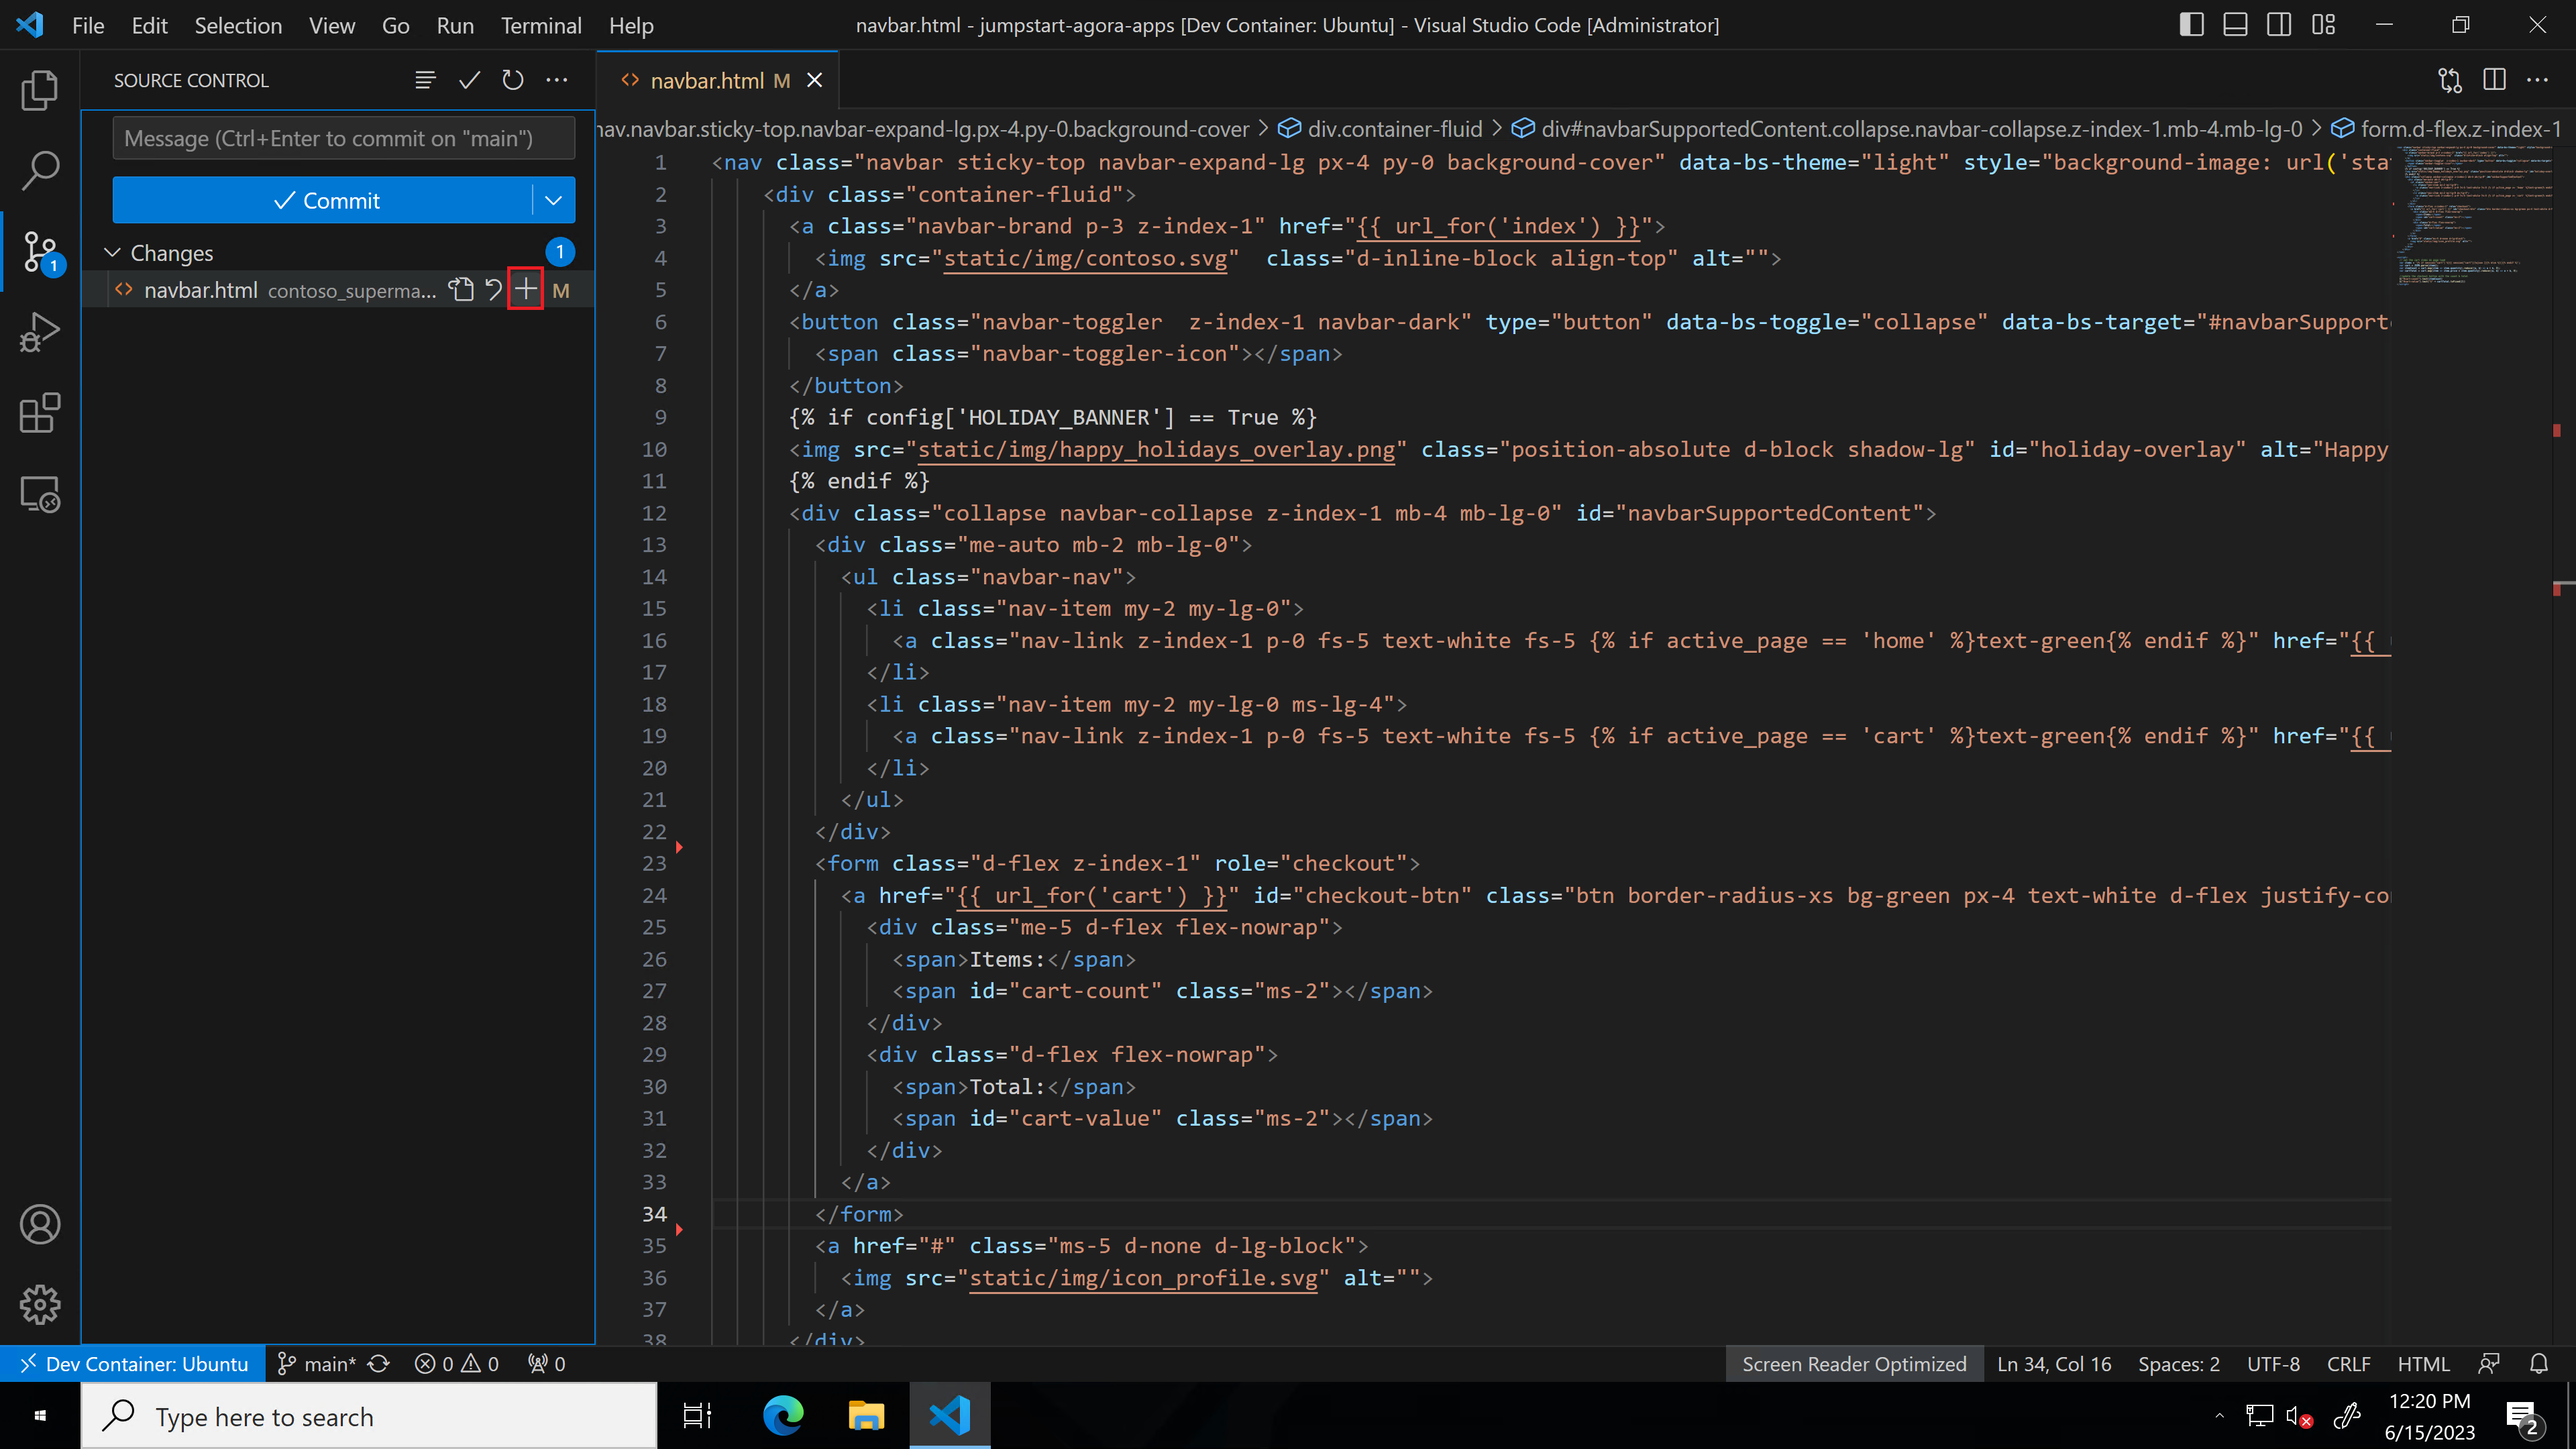
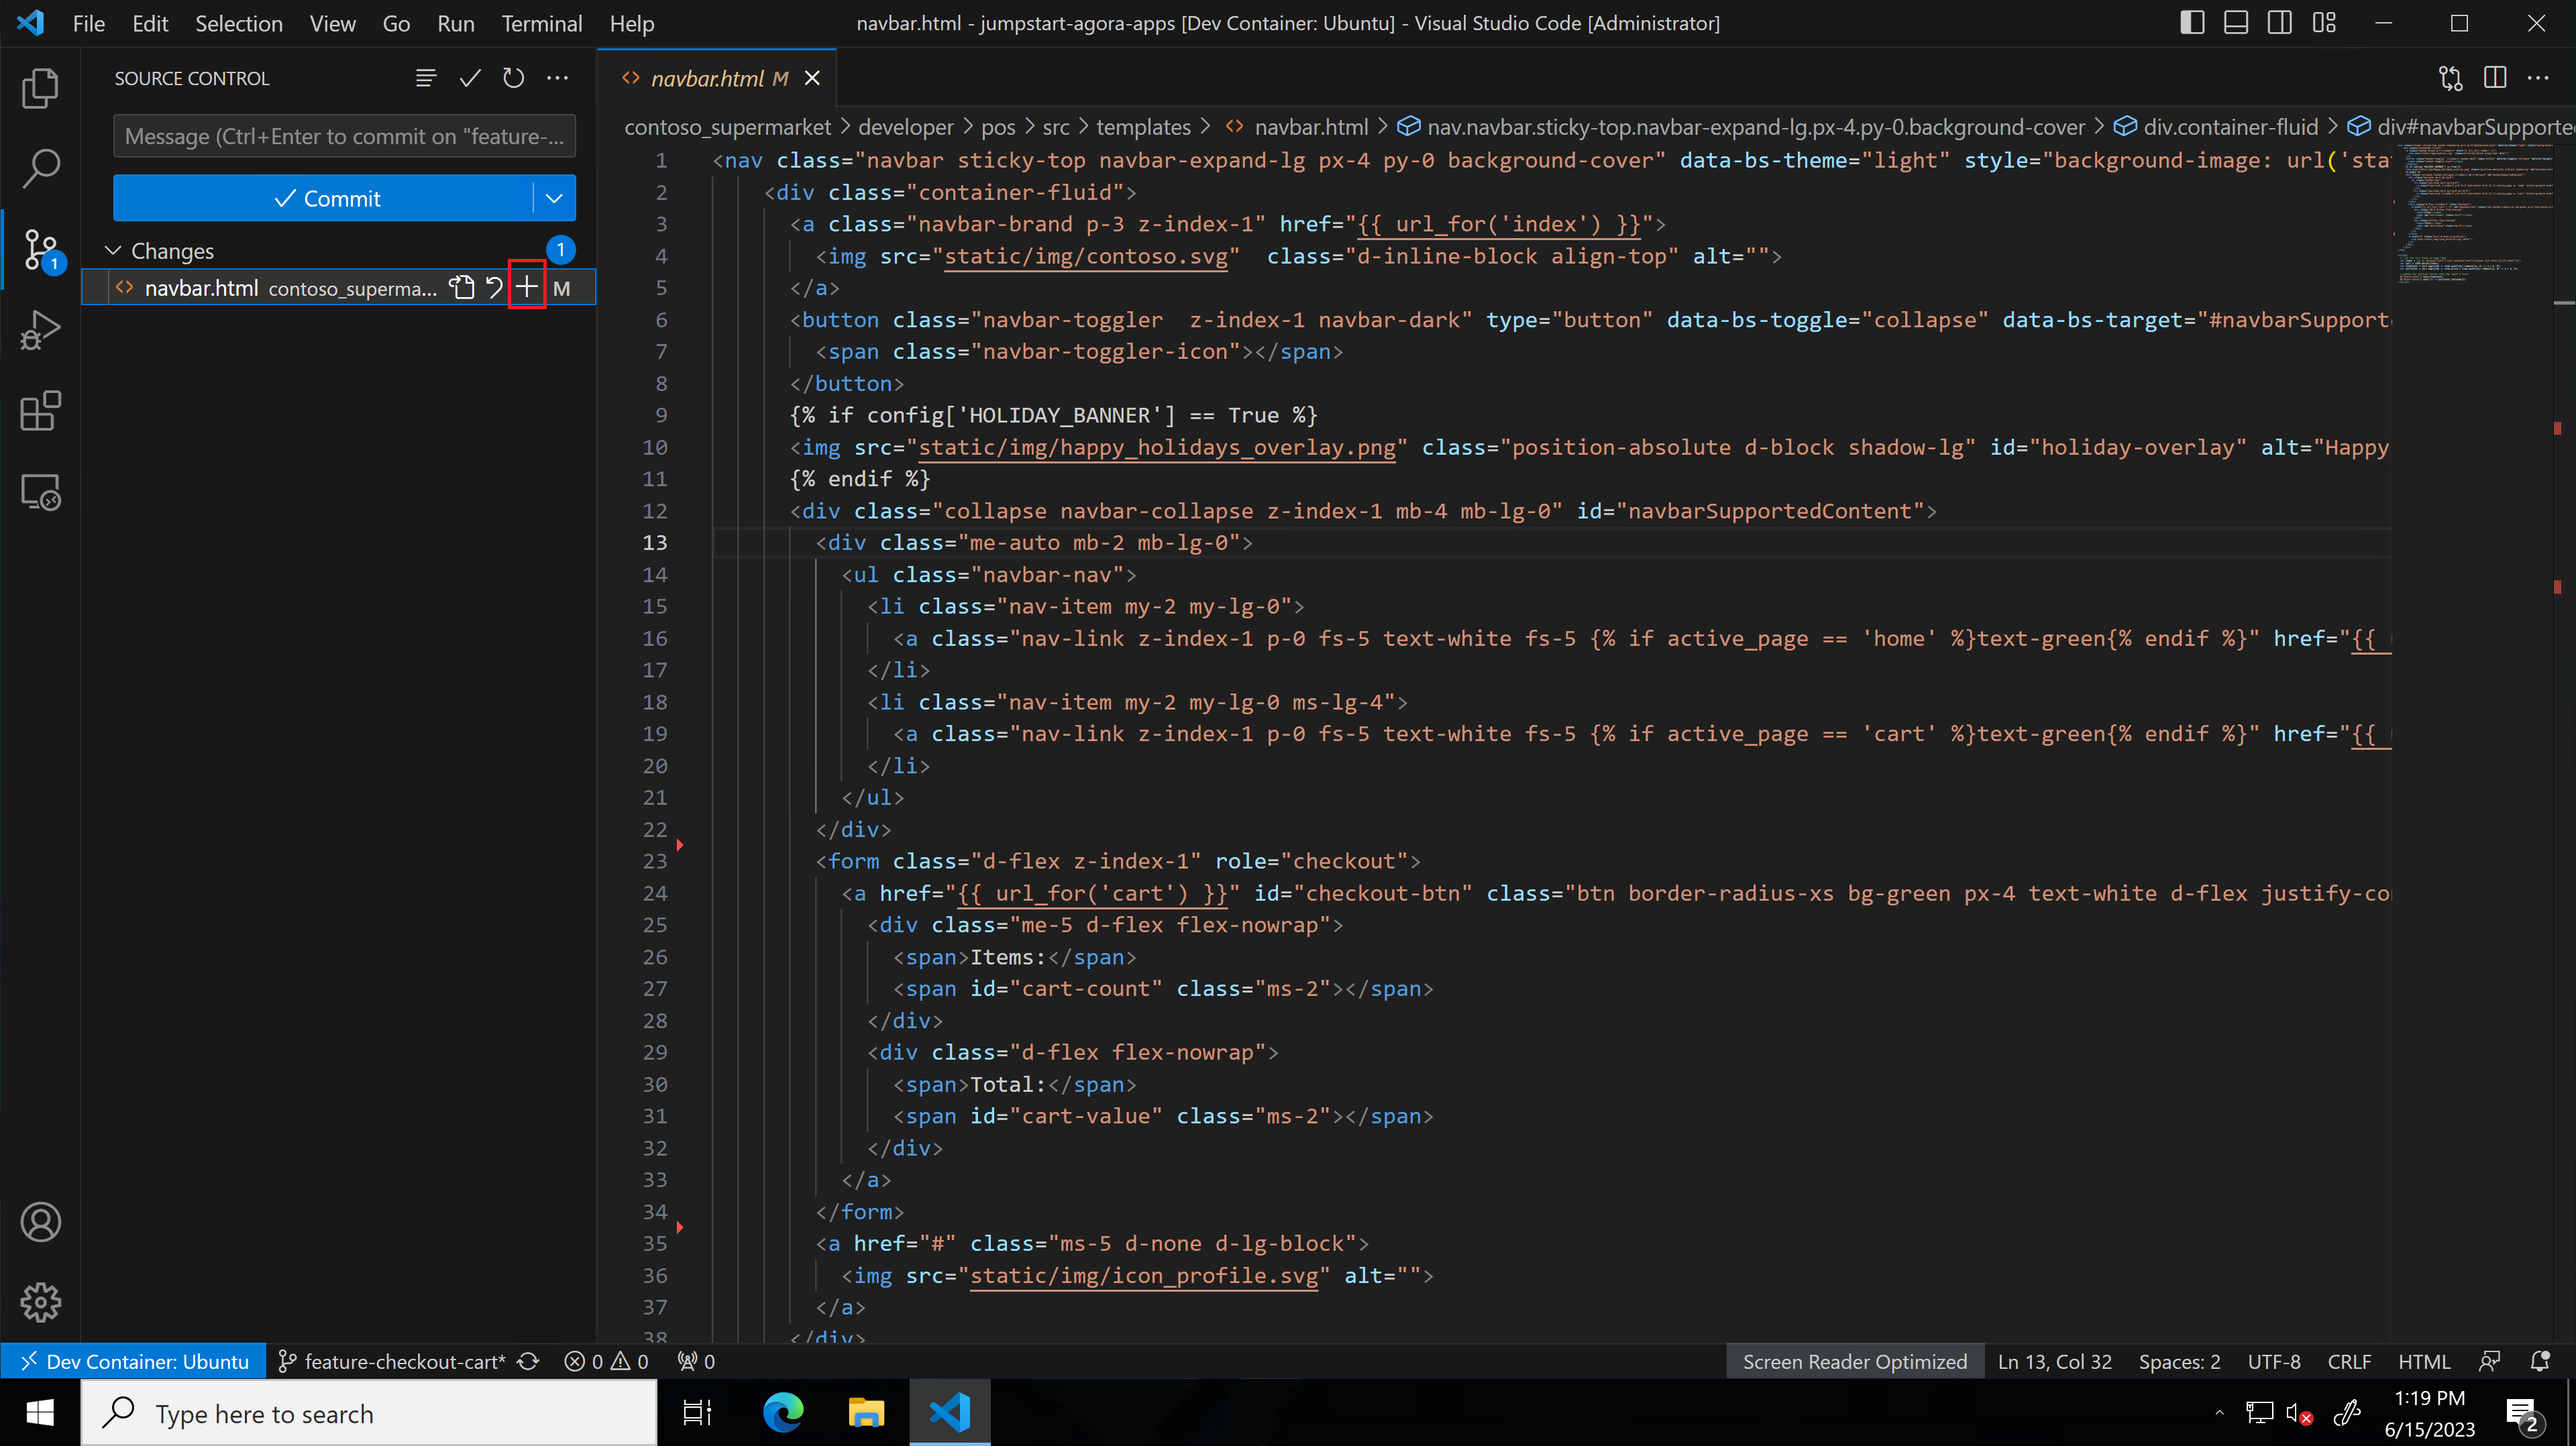
readme changes

diff --git a/docs/azure_jumpstart_ag/contoso_supermarket/ci_cd/_index.md b/docs/azure_jumpstart_ag/contoso_supermarket/ci_cd/_index.md
@@ -105,9 +105,11 @@ The development process will start from the local _dev_ cluster, where as a deve
   ![Screenshot showing the trust repository prompt in VSCode](./img/vscode_dev_container_trust_repository.png)
 
 - To add this new checkout functionality, you will have to create a new feature branch and edit the _navbar.html_ file in the _pos_ application.
-- Create a new branch from VSCode called _feature-checkout-cart_
+- Create a new branch from VSCode called _feature-checkout-cart_ and publish this branch to the remote repository
 
   ![Screenshot showing creating a new branch](./img/vscode_dev_new_feature_branch.png)
+
+  ![Screenshot showing publishing the new branch](./img/vscode_dev_publish_branch.png)
 
 - Navigate to the file _contoso_supermarket/developer/pos/src/templates/navbar.html_
 
@@ -121,8 +123,26 @@ The development process will start from the local _dev_ cluster, where as a deve
 
   ![Screenshot showing the added changes in the repository](./img/vscode_dev_add_changes.png)
 
-- Add a commit message and click Commit, for example: "Adding checkout functionality"
+- Add a commit message and click Commit, for example: "Adding checkout functionality" and push your code
 
   ![Screenshot showing the added a commit message](./img/vscode_dev_commit_message.png)
 
+  ![Screenshot showing the added pushing code to remote](./img/vscode_dev_push_changes.png)
 
+- After the code has been pushed, navigate to your GitHub fork of the _jumpstart-agora-apps_, you will see a notification about changes in the _feature-checkout-cart_branch. Click _Compare & Pull request_
+
+  ![Screenshot showing new changes message](./img/github_create_pr_dev.png)
+
+- Change the base repository to your fork, create the pull request, merge the pull request and delete the feature branch after the merge
+
+  ![Screenshot showing changing base branch and submitting the pull request](./img/github_change_remote.png)
+
+  ![Screenshot showing changing base branch and submitting the pull request](./img/github_change_remote_updated.png)
+
+  ![Screenshot showing merging the pull request](./img/github_merge_dev.png)
+
+  ![Screenshot showing deleting the feature](./img/github_delete_branch_dev.png)
+
+- A GitHub action is automatically triggered to build new Docker image of the Pos application and deploy this new image to the Staging cluster
+
+  ![Screenshot showing the staging GitHub Action](./img/github_github_actions_dev.png)
